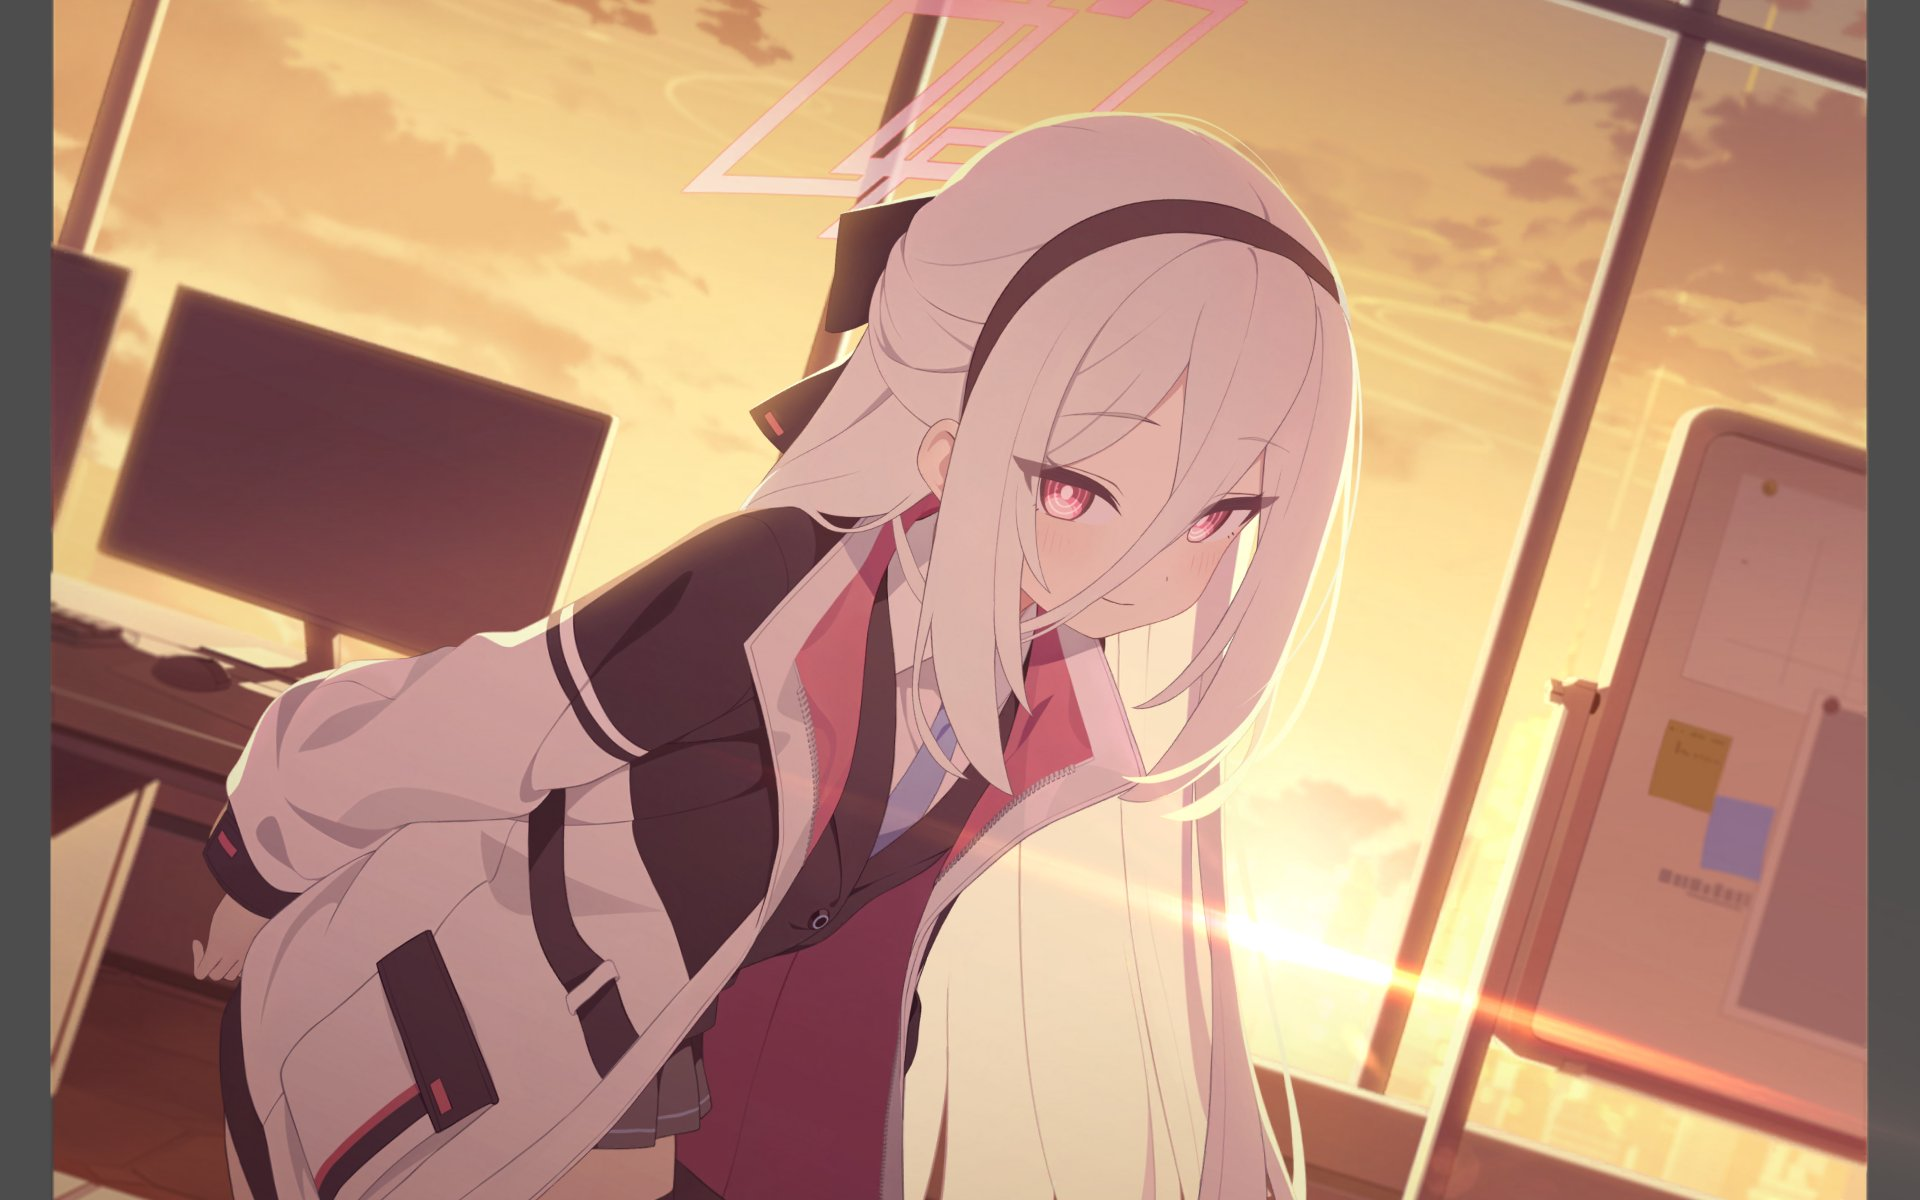
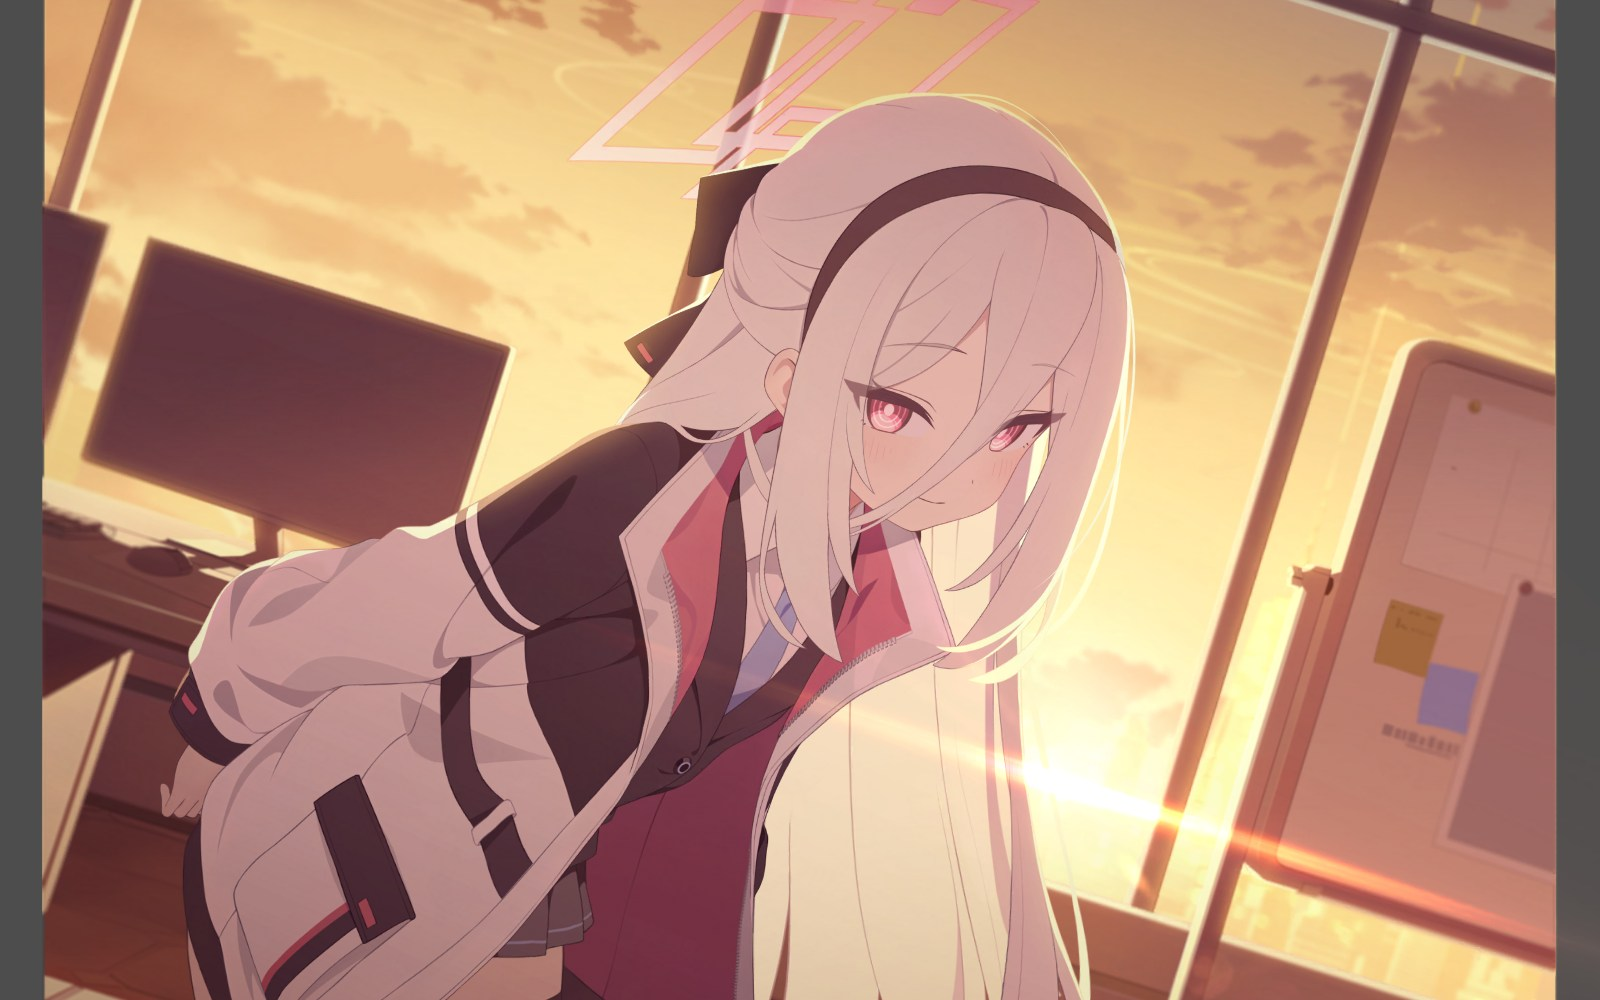
Reduce glare and update pat interactions

diff --git a/js/main.js b/js/main.js
@@ -2,9 +2,14 @@ let canvas, textbox, gl, shader, batcher, assetManager, skeletonRenderer;
 let mvp = new spine.Matrix4();
 
 let lastFrameTime;
+let initialLoadTimer;
+let modelFrame;
+let renderFrame;
+let renderTimer;
+let loadingResolution;
 let spineData;
 
-let customScale = 0.8;
+let customScale = 1;
 let targetFps = 60;
 let bgmfile = './assets/audio/Theme_341.ogg';
 let bgmvolume = 0;
@@ -40,10 +45,6 @@ let isVoicelinePlaying = false;
 
 const CHARACTER = 'CH0335';
 let modelResolution = '8k';
-let loadingResolution;
-let modelFrame;
-let renderTimer;
-let renderFrame;
 const HAS_A = { eye: false, point: true };
 
 // Subtitles follow the Talk events in each Spine animation.
@@ -507,7 +508,7 @@ function init() {
 
 			// 监听模型分辨率设置
 			if (props.modelresolution) modelResolution = props.modelresolution.value;
-			if (typeof introAnimation !== 'undefined' && !modelFrame && loadingResolution !== modelResolution) {
+			if (assetManager && typeof introAnimation !== 'undefined' && !modelFrame && loadingResolution !== modelResolution) {
 				reloadModel();
 			}
 
@@ -604,9 +605,15 @@ function init() {
 	skeletonRenderer = new spine.SkeletonRenderer(gl);
 	assetManager = new spine.AssetManager(gl);
 
+	initialLoadTimer = setTimeout(() => {
+		if (typeof introAnimation === 'undefined') introAnimation = true;
+		if (loadingResolution === undefined && !modelFrame) reloadModel();
+	}, 350);
+
 	window.addEventListener('pagehide', event => {
 		if (event.persisted) return;
 		canvas.style.visibility = 'hidden';
+		clearTimeout(initialLoadTimer);
 		cancelAnimationFrame(modelFrame);
 		cancelAnimationFrame(renderFrame);
 		clearTimeout(renderTimer);
@@ -620,6 +627,7 @@ let introTimeouts = [];
 
 // Function to reload the model with a new resolution
 function reloadModel() {
+	if (!assetManager || modelFrame) return;
 	if (mouseSelect === 1 || mouseSelect === 4) mouseSelect = -1;
 	headpatOrigin = null;
 	headpatTarget.set(0, 0);
@@ -634,7 +642,6 @@ function reloadModel() {
 		bgm = null;
 	}
 
-	slotsHidden = false;
 
 	// Stop all intro audio and clear related timeouts
 	introAudioIsPlaying = false;
@@ -674,9 +681,8 @@ function reloadModel() {
 	spineData = null;
 	assetManager.removeAll();
 	loadingResolution = modelResolution;
-	const base = new URL(`assets/${loadingResolution}/${CHARACTER}_home`, document.baseURI).href;
-	const binaryPath = base + '.skel';
-	const atlasPath = base + '.atlas';
+	const binaryPath = new URL(`assets/${modelResolution}/${CHARACTER}_home.skel`, document.baseURI).href;
+	const atlasPath = new URL(`assets/${modelResolution}/${CHARACTER}_home.atlas`, document.baseURI).href;
 	assetManager.loadBinary(binaryPath);
 	assetManager.loadTextureAtlas(atlasPath);
 	function waitForAssets() {
@@ -692,7 +698,8 @@ function reloadModel() {
 		if (assetManager.get(binaryPath) && assetManager.get(atlasPath)) {
 			load(binaryPath, atlasPath);
 		} else {
-			console.error('Model assets not found for resolution: ' + modelResolution);
+			console.error('Model assets not found for resolution: ' + loadingResolution);
+			loadingResolution = undefined;
 		}
 	}
 	modelFrame = requestAnimationFrame(waitForAssets);
@@ -722,9 +729,6 @@ function interactionLoad() {
 
 function load(dynamicBinaryPath, dynamicAtlasPath) {
 	spineData = loadSpineData(dynamicBinaryPath, dynamicAtlasPath, false);
-
-	// 在设置动画之前隐藏指定的骨骼
-	// hideSpecifiedSlots();
 
 	// User Option to skip Intro Animation
 	if (introAnimation) {
@@ -757,8 +761,26 @@ function load(dynamicBinaryPath, dynamicAtlasPath) {
 	}
 
 	lastFrameTime = Date.now() / 1000;
+	// Call render every frame.
 	render();
 	canvas.style.visibility = 'visible';
+}
+
+const GLARE_SLOTS = new Set([
+	"BG_FX_Lensflare2", "BG_FX_SunFlare", "FX_SunFlare_03", "FX_SunFlare_02",
+	"FX_SunFlare_01"
+]);
+const GLARE_OPACITY = 0.7;
+
+// Scale attachment opacity once so animated slot colors still control the light.
+function applyGlareOpacity(skeletonData) {
+	for (const skin of skeletonData.skins) {
+		for (const { slotIndex, attachment } of skin.getAttachments()) {
+			const slot = skeletonData.slots[slotIndex];
+			if (!GLARE_SLOTS.has(slot.name) || slot.blendMode !== 1 || !attachment.color) continue;
+			attachment.color.a *= GLARE_OPACITY;
+		}
+	}
 }
 
 function loadSpineData(binaryPath, atlasPath, premultipliedAlpha) {
@@ -774,6 +796,7 @@ function loadSpineData(binaryPath, atlasPath, premultipliedAlpha) {
 	// Set the scale to apply during parsing, parse the file, and create a new skeleton.
 	skeletonBinary.scale = 1;
 	let skeletonData = skeletonBinary.readSkeletonData(assetManager.get(binaryPath));
+	applyGlareOpacity(skeletonData);
 	let skeleton = new spine.Skeleton(skeletonData);
 	let bounds = calculateSetupPoseBounds(skeleton);
 
@@ -795,34 +818,8 @@ function calculateSetupPoseBounds(skeleton) {
 	return { offset: offset, size: size };
 }
 
-let slotsHidden = false;
 
-// 定义需要隐藏的骨骼名称列表（全局变量）
-const slotsToHide = [
-	""
-];
 
-function hideSpecifiedSlots() {
-	if (spineData && spineData.skeleton) {
-		let foundSlots = 0;
-		let totalSlots = slotsToHide.length;
-
-		// 遍历并隐藏所有指定的骨骼（每次渲染都执行）
-		slotsToHide.forEach(slotName => {
-			let slot = spineData.skeleton.findSlot(slotName);
-			if (slot) {
-				slot.setAttachment(null);
-				foundSlots++;
-			}
-		});
-
-		// 只在首次执行时显示调试信息
-		// if (!slotsHidden) {
-		// 	console.log("总共尝试隐藏 " + totalSlots + " 个骨骼，成功隐藏 " + foundSlots + " 个");
-		// 	slotsHidden = true;
-		// }
-	}
-}
 
 function render() {
 	let now = Date.now() / 1000;
@@ -841,9 +838,6 @@ function render() {
 		let premultipliedAlpha = spineData.premultipliedAlpha;
 		state.update(delta);
 		state.apply(skeleton);
-
-		// 在渲染时检查并隐藏指定的骨骼
-		// hideSpecifiedSlots();
 
 		const pointX = TPoint.x;
 		const pointY = TPoint.y;

diff --git a/index.html b/index.html
@@ -5,8 +5,8 @@
     <title>Blue Archive</title>
     <style>
       html {
-        background: #554e55 url("assets/loading.jpg") center / cover no-repeat fixed;
-        /* The 16:10 frame was captured at the minimum wallpaper scale (0.7). */
+        background: #4d4d4d var(--wallpaper-cover, url("assets/loading.jpg")) center / cover no-repeat fixed;
+        /* The loading frame was captured at a wallpaper scale of 0.7. */
         background-size: calc(max(100vw, 160vh) * var(--wallpaper-scale, 0.8) / 0.7) auto;
       }
       #canvas { visibility: hidden; }
